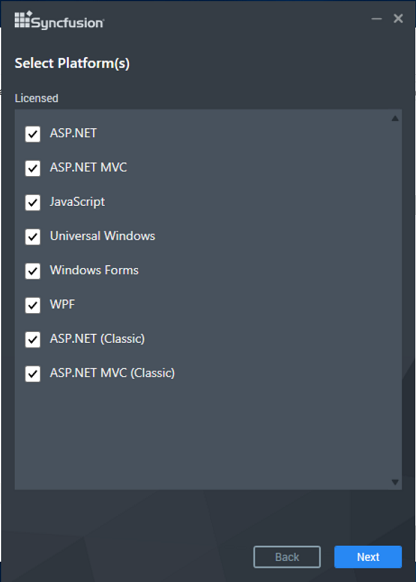
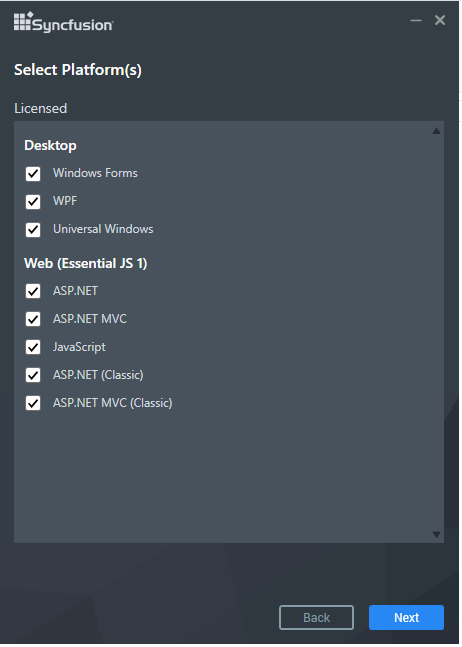
Mac installer information committed

Changed region(s): [[0.0, 0.0, 0.4375, 0.9588], [0.0, 0.0, 1.0, 1.0]]

diff --git a/Common-toc.html b/Common-toc.html
@@ -22,11 +22,11 @@
                 <a href="/common/essential-studio/essential-studio-installer-for-individual-platform">Essential Studio Installer for Individual Platform</a>
             </li>
 			<li>
+                <a href="/common/essential-studio/essential-studio-mac-installer">Essential Studio MAC Installer</a>
+            </li>
+			<li>
                 <a href="/common/essential-studio/essential-studio-retired-products">Essential Studio Retired Products</a>
-            </li>
-            <li>
-                <a href="/common/essential-studio/source-code">Source Code</a>
-            </li>
+            </li>            
             <li>
                 <a href="/common/essential-studio/documentation-setup">Documentation Setup</a>
             </li>
@@ -41,6 +41,9 @@
             </li>
             <li>
                 <a href="/common/essential-studio/add-on">Add On</a>
+            </li>
+			<li>
+                <a href="/common/essential-studio/source-code">Source Code</a>
             </li>
             <li>
                 <a href="/common/essential-studio/supported-environments">Supported Environments</a>
@@ -155,10 +158,7 @@
             </li>
             <li>
                 <a href="/common/faq/how-to-upgrade-the-project-into-a-new-syncfusion-version">How to Upgrade the Project into a New Syncfusion Version?</a>
-            </li>
-            <li>
-                <a href="/common/faq/why-is-the-unlock-key-displayed-as-invalid-while-installing-the-setup">Why is the Unlock Key displayed as Invalid while installing the setup?</a>
-            </li>
+            </li>            
             <li>
                 <a href="/common/faq/how-to-implement-localization-support">How to implement Localization Support?</a>
             </li>

diff --git a/Common/Essential-Studio/Essential-Studio-Enterprise-Installer.md b/Common/Essential-Studio/Essential-Studio-Enterprise-Installer.md
@@ -14,24 +14,27 @@ documentation: ug
 
 The Essential Studio Enterprise Installer includes all of the following platforms. You can download the latest version Essential Studio Enterprise Installer [here](https://www.syncfusion.com/downloads/latest-version) . There is also separate installer for individual platforms. For more information refer to the [Platform installer](http://help.syncfusion.com/common/essential-studio/essential-studio-installer-for-individual-platform ) section.
 
-* ASP.NET
-* ASP.NET Core (Essential JS 1)
-* ASP.NET MVC (Essential JS 1)
-* JavaScript (Essential JS 1)
-* JSP
-* PHP
-* Universal Windows Platform
+**Web (Essential JS 2)**
+* ASP.NET MVC
+* ASP.NET Core
+* JavaScript
+**Desktop**
 * Windows Forms
-* WPF 
+* WPF
+*Universal Windows
+**Phone and Tablet**
 * Xamarin
-* ASP.NET Core (Essential JS 2)
-* ASP.NET MVC (Essential JS 2)
-* JavaScript (Essential JS 2)
-
+**Web (Essential JS 1)**
+* ASP.NET
+* ASP.NET MVC
+* ASP.NET Core
+* JavaScript
+* PHP
+* JSP
 
    N> Universal Windows Platform will be installed in Windows 8.1 and later.    
 
-   N> Syncfusion has removed Classic products(ASP.NET and ASP.NET MVC), Silverlight, and LightSwitch Silverlight platforms from the Syncfusion Enterprise edition setup and providing them as individual platform setup alone from the 2015 Vol 4 release(v13.4.0.53). We have removed Android, Windows Phone and Universal 8.1 from Syncfusion Enterprise edition setup and providing individual platform setup from the 2016 Vol 3 release(v14.3.0.49). Also we have removed the WinRT platform from the Syncfusion Enterprise edition setup from 2016 Vol 4 release(v14.4.0.15). Syncfusion has started providing separate platforms for **Essential JS 2** from 2018 Volume 1 release (v16.1.0.24)
+   N> Syncfusion has started providing **Essential JS 2** platforms in Essential Studio Enterprise Edition setup from 2018 Volume 1 release (v16.1.0.24)
  
  
 ## Step-by-Step Installation
@@ -48,9 +51,9 @@ The following procedure illustrates how to install Essential Studio setup. 
 2. From the 2016 Vol 3 release(v14.3.0.49), there are two options to unlock the Syncfusion setup.
     
 
-   **Login To Install**   
+     a)Login To Install
    
-   **Use Unlock Key**
+     b)Use Unlock Key
    
    N> While installing the Syncfusion setup, by default **Login To Install** screen will be displayed. You can provide the email ID and password registered with Syncfusion for unlocking the Essential Studio setup and your license will be configured. For unlocking the setup with License Key, you can select the **Use Unlock Key** option in the Installer and you will be prompt to enter the license key.
    
@@ -72,13 +75,19 @@ The following procedure illustrates how to install Essential Studio setup. 
 
 4.  Click Next. Platform selection window opens. This window displays the platforms based on the license type (Licensed or Evaluation).
 
+    **License**
+
     ![](Essential-Studio-Enterprise-Installer_images/Step-by-Step-Installation_img4.png)
 
-    N> If you have complete license, then all the platforms will be displayed under Licensed category. 
+    N> If you have complete license, then all the platforms will be displayed under Licensed category.
+
+    **Evaluation** 	
      
     ![](Essential-Studio-Enterprise-Installer_images/Step-by-Step-Installation_img5.png)
 
-    N> If you have entered evaluation account, then platforms will be displayed under Evaluation category. 
+    N> If you have entered evaluation account, then platforms will be displayed under Evaluation category.
+
+    **Combination of License and Evaluation**	
 
     ![](Essential-Studio-Enterprise-Installer_images/Step-by-Step-Installation_img6.png)
  

diff --git a/Common/Essential-Studio/Add-on.md b/Common/Essential-Studio/Add-on.md
@@ -74,7 +74,7 @@ The Essential CAB Enabling Kit offers the following workspaces and UI Elements.
 
 Essential CAB setup supports Visual Studio Framework versions V2.0, V3.5, V4.0, V4.5, and V4.5.1.
 
-## WebKit
+## WebKit HTML converter
 
 Syncfusion introduces WebKit HTML converter from the version 13.1.0.21 of Essential Studio that supports HTML to PDF conversion by using the WebKit rendering engine. This converter works on both x86 and x64 environments and can be easily integrated into any application on .NET platforms such as Windows Forms, WPF, ASP.NET, and ASP. NET MVC to convert URLs, HTML string, images, and SVG to PDF.
 
@@ -158,6 +158,79 @@ Syncfusion WebKit Installer supports uninstalling the setup through Command Line
     
 	N> * x.x.x.x need to be replaced with the WebKit version installed in your machine.* Above steps applicable from the version 13.2.0.x.
 	
+## WPF Theme Studio
+
+The Theme Studio is a desktop-based, intuitive UI customization tool for easy customization of skins and themes for the Syncfusion control suite.
+
+### Step-by-Step Installation
+
+The following are the steps to install the WebKit Setup.
+
+1. Double-click the Syncfusion WPF Theme Studio Installer Setup file. The Setup Wizard opens and extracts the package automatically. 
+
+   ![](Add-on_images/Theme-Studio-Setup_img1.png)
+
+   
+
+   N> You need to install corresponding version WPF platform setup before installing WPF Theme Studio setup. Also, no key is required for Syncfusion WPF Theme Studio.
+
+2. Once the unzip operation is complete, License Agreement screen opens.
+
+   ![](Add-on_images/Theme-Studio-Setup_img2.png)
+
+3. After reading the License Agreement, check the **I agree to the License Terms and Conditions** check box.
+
+4. Click Next. Installation location will be displayed.
+
+   ![](Add-on_images/Theme-Studio-Setup_img3.png)
+   
+
+5. Click Install. You can't change the install location as it will be installed in the WPF platform installed location.
+
+   ![](Add-on_images/Theme-Studio-Setup_img4.png)
+   
+   N> The Completed screen is displayed once the Syncfusion WPF Theme Studio is installed.
+   
+   ![](Add-on_images/Theme-Studio-Setup_img5.png)
+
+6. Click Finish. Syncfusion WPF Theme Studio is installed in your system.
+
+## Electron
+
+Electron (Previously known as Atom Shell) is used create a cross platform desktop application for different OS like Linux, Windows and OS X by using JavaScript and able to access platform specific native API’s.
+
+### Step-by-Step Installation
+
+The following are the steps to install the WebKit Setup.
+
+1. Double-click the Syncfusion Electron Setup file. The Setup Wizard opens and extracts the package automatically. 
+
+   ![](Add-on_images/Electron-Setup_img1.png)
+   
+
+   N> No key is required for Syncfusion Electron.
+
+2. Once the unzip operation is complete, License Agreement screen opens.
+
+   ![](Add-on_images/Electron-Setup_img2.png)
+
+3. After reading the License Agreement, check the **I agree to the License Terms and Conditions** check box.
+
+4. Click Next. Installation location will be displayed.
+
+   ![](Add-on_images/Electron-Setup_img3.png)
+
+   N> You can also browse and choose a location by clicking Browse.
+
+5. To install in the displayed default location, click Install.
+
+   ![](Add-on_images/Electron-Setup_img4.png)
+   
+   N> The Completed screen is displayed once the Electron is installed.
+   
+   ![](Add-on_images/Electron-Setup_img5.png)
+
+6. Click Finish. Electron is installed in your system.
 	
 ## Sample Creator
 
